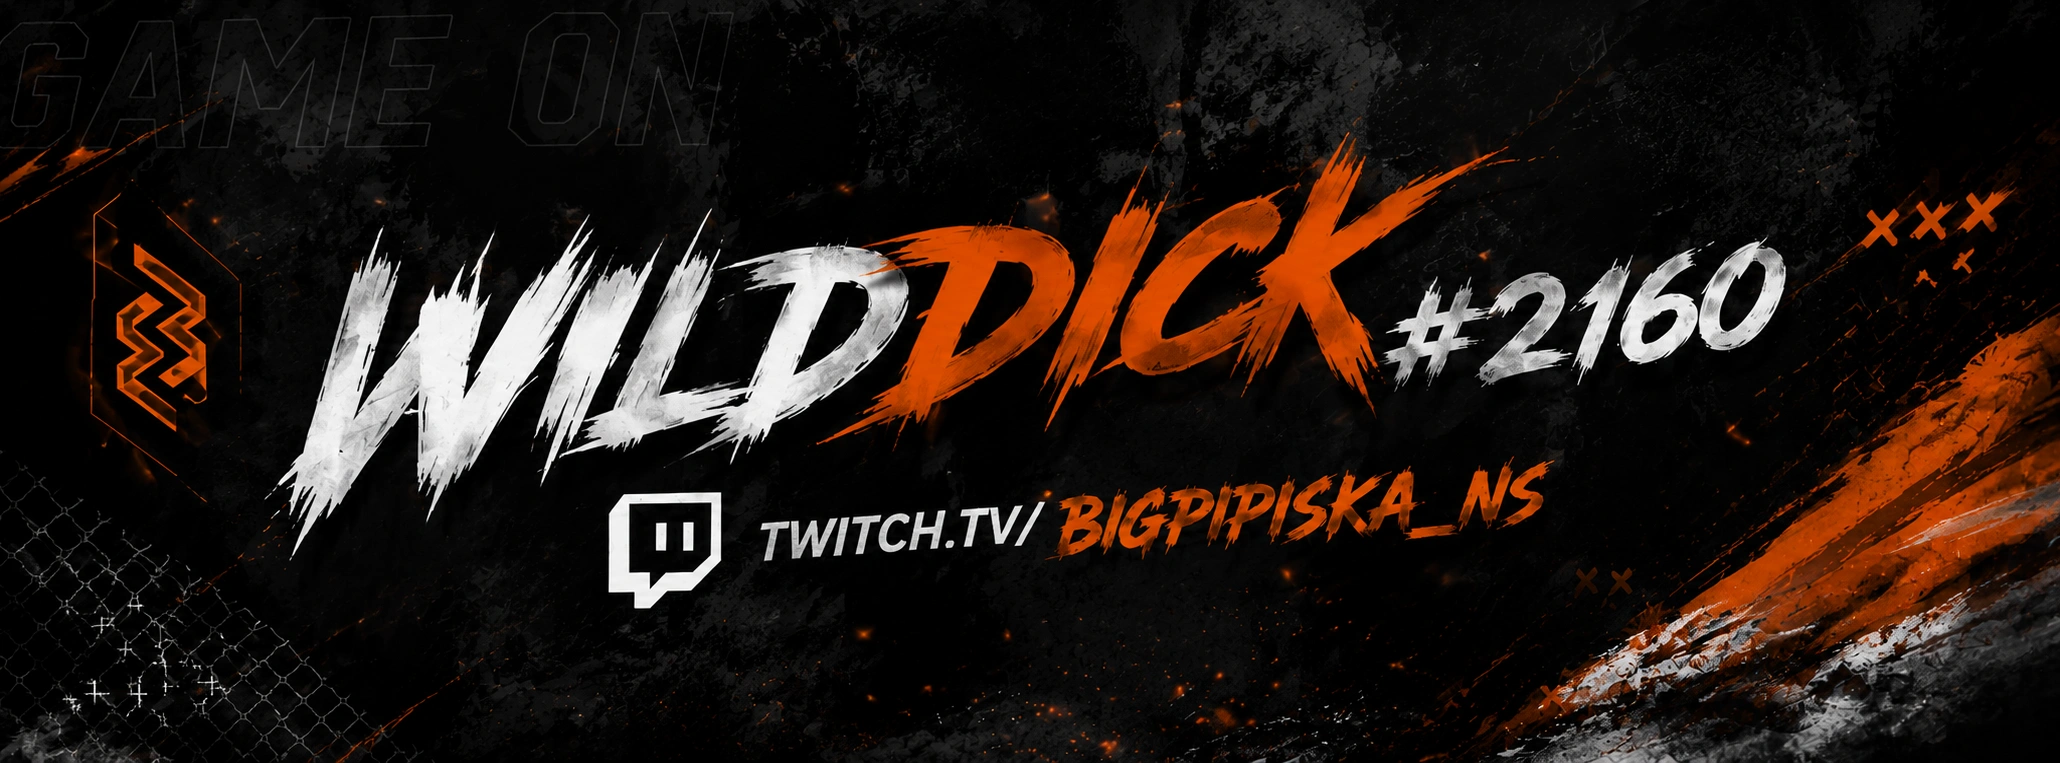
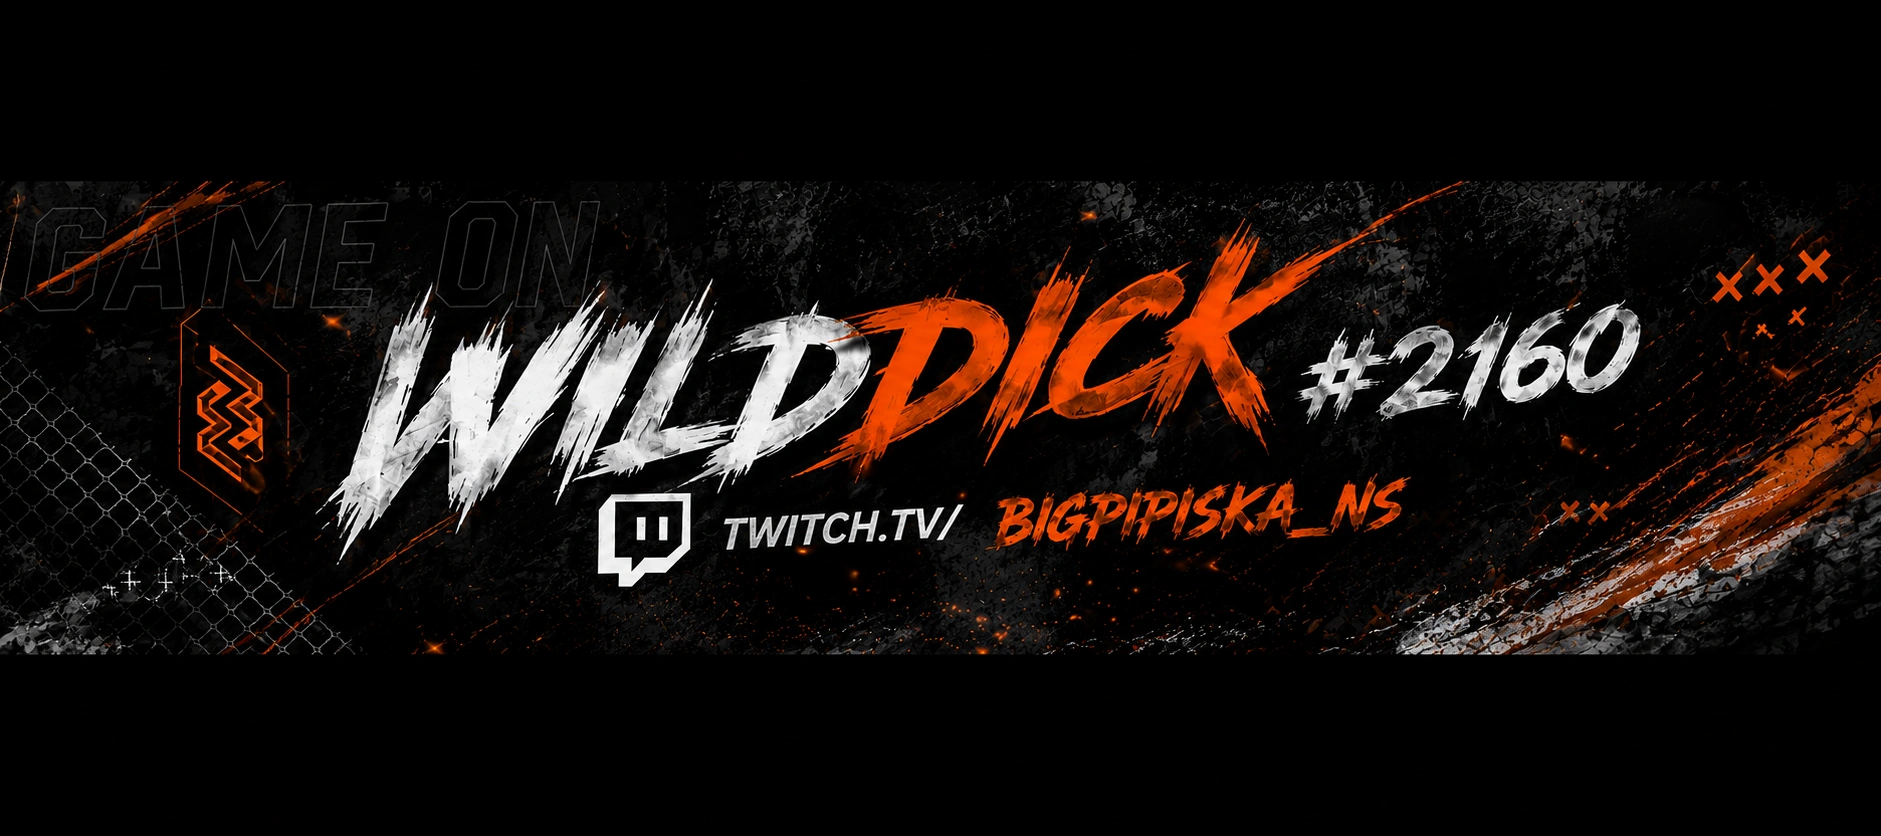
Sort cards by cost automatically

diff --git a/BerserHeroesOnline.html b/BerserHeroesOnline.html
@@ -219,9 +219,9 @@
 ">
     <a href="" target="_blank" rel="noopener noreferrer">
         <img
-            src="./Баннера/WilDick/WilDick1200x200.webp"
+            src="./Баннера/WilDick/WilDick1440x200.webp"
             alt="https://www.twitch.tv/bigpipiska_ns"
-            style="
+            style="https://www.twitch.tv/bigpipiska_ns"
                 width:1200px;
                 height:200px;
                 display:block;
@@ -383,7 +383,7 @@
         <img
             src="./Баннера/WilDick/WilDick770x370.webp"
             alt="https://www.twitch.tv/bigpipiska_ns"
-            style="
+            style="https://www.twitch.tv/bigpipiska_ns"
                 width:770px;
                 height:370px;
                 display:block;

diff --git a/community.html b/community.html
@@ -374,9 +374,9 @@
 ">
     <a href="" target="_blank" rel="noopener noreferrer">
         <img
-            src="./Баннера/WilDick/WilDick1200x200.webp"
+            src="./Баннера/WilDick/WilDick1440x200.webp"
             alt="https://www.twitch.tv/bigpipiska_ns"
-            style="
+            style="https://www.twitch.tv/bigpipiska_ns"
                 width:1200px;
                 height:200px;
                 display:block;

diff --git a/deck-builder_checked.html b/deck-builder_checked.html
@@ -704,7 +704,7 @@
         <img
             src="./Баннера/WilDick/WilDick770x370.webp"
             alt="https://www.twitch.tv/bigpipiska_ns"
-            style="
+            style="https://www.twitch.tv/bigpipiska_ns"
                 width:770px;
                 height:370px;
                 display:block;

diff --git a/decks_select_publish.html b/decks_select_publish.html
@@ -609,7 +609,7 @@
         <img
             src="./Баннера/WilDick/WilDick1440x200.webp"
             alt="https://www.twitch.tv/bigpipiska_ns"
-            style="
+            style="https://www.twitch.tv/bigpipiska_ns"
                 width:1440px;
                 height:200px;
                 display:block;

diff --git a/news.html b/news.html
@@ -828,7 +828,7 @@
         <img
             src="./Баннера/WilDick/WilDick525x370.webp"
             alt="https://www.twitch.tv/bigpipiska_ns"
-            style="
+            style="https://www.twitch.tv/bigpipiska_ns"
                 width:525px;
                 height:370px;
                 display:block;

diff --git a/support.html b/support.html
@@ -769,7 +769,7 @@
         <img
             src="./Баннера/WilDick/WilDick1440x200.webp"
             alt="https://www.twitch.tv/bigpipiska_ns"
-            style="
+            style="https://www.twitch.tv/bigpipiska_ns"
                 width:1440px;
                 height:200px;
                 display:block;

diff --git a/tournaments.html b/tournaments.html
@@ -3184,7 +3184,7 @@ html body .bracket-cell.alive{
         <img
             src="./Баннера/WilDick/WilDick1440x200.webp"
             alt="https://www.twitch.tv/bigpipiska_ns"
-            style="
+            style="https://www.twitch.tv/bigpipiska_ns"
                 width:1440px;
                 height:200px;
                 display:block;